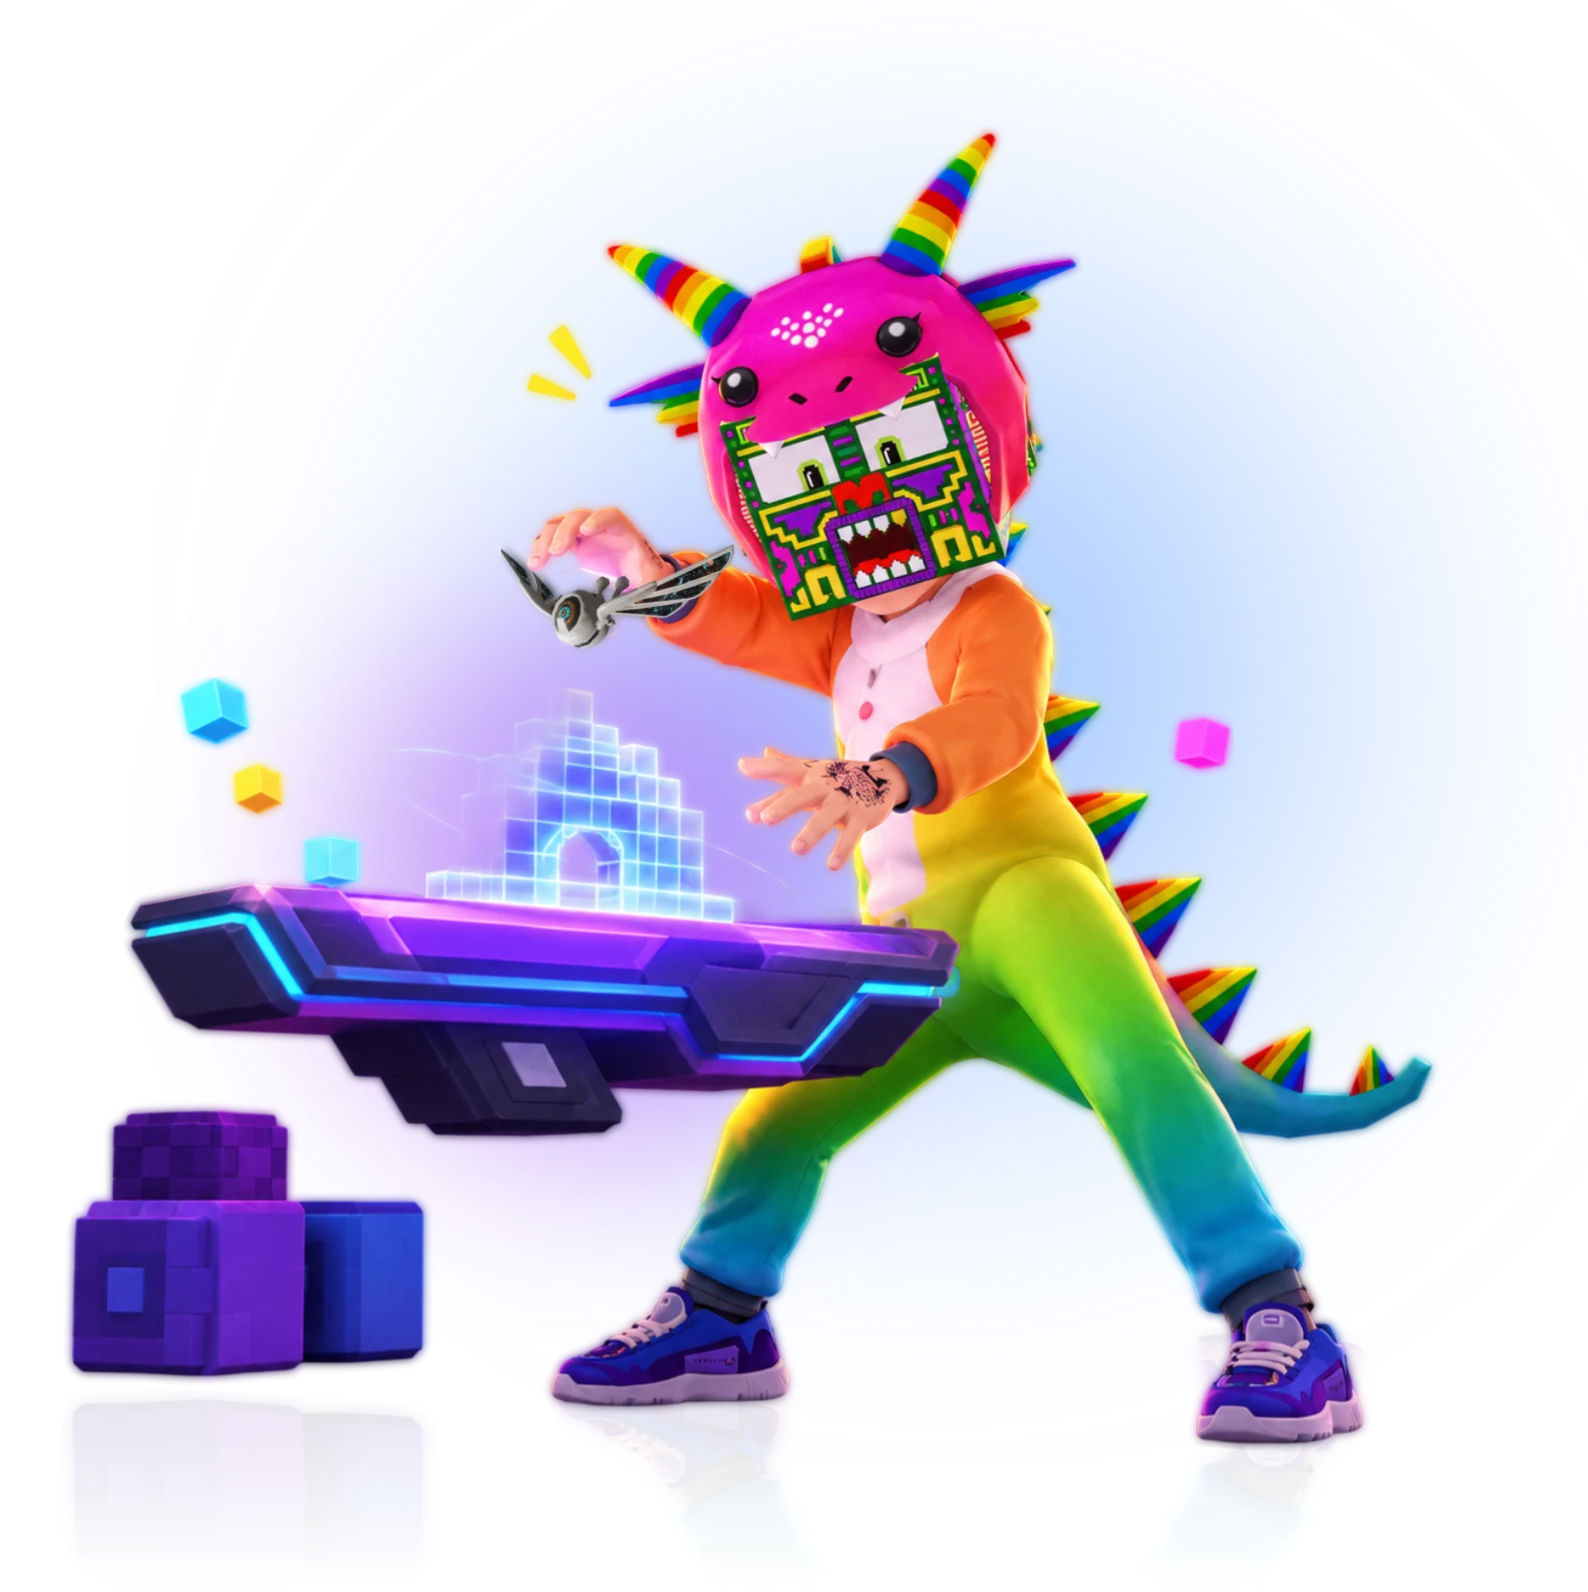
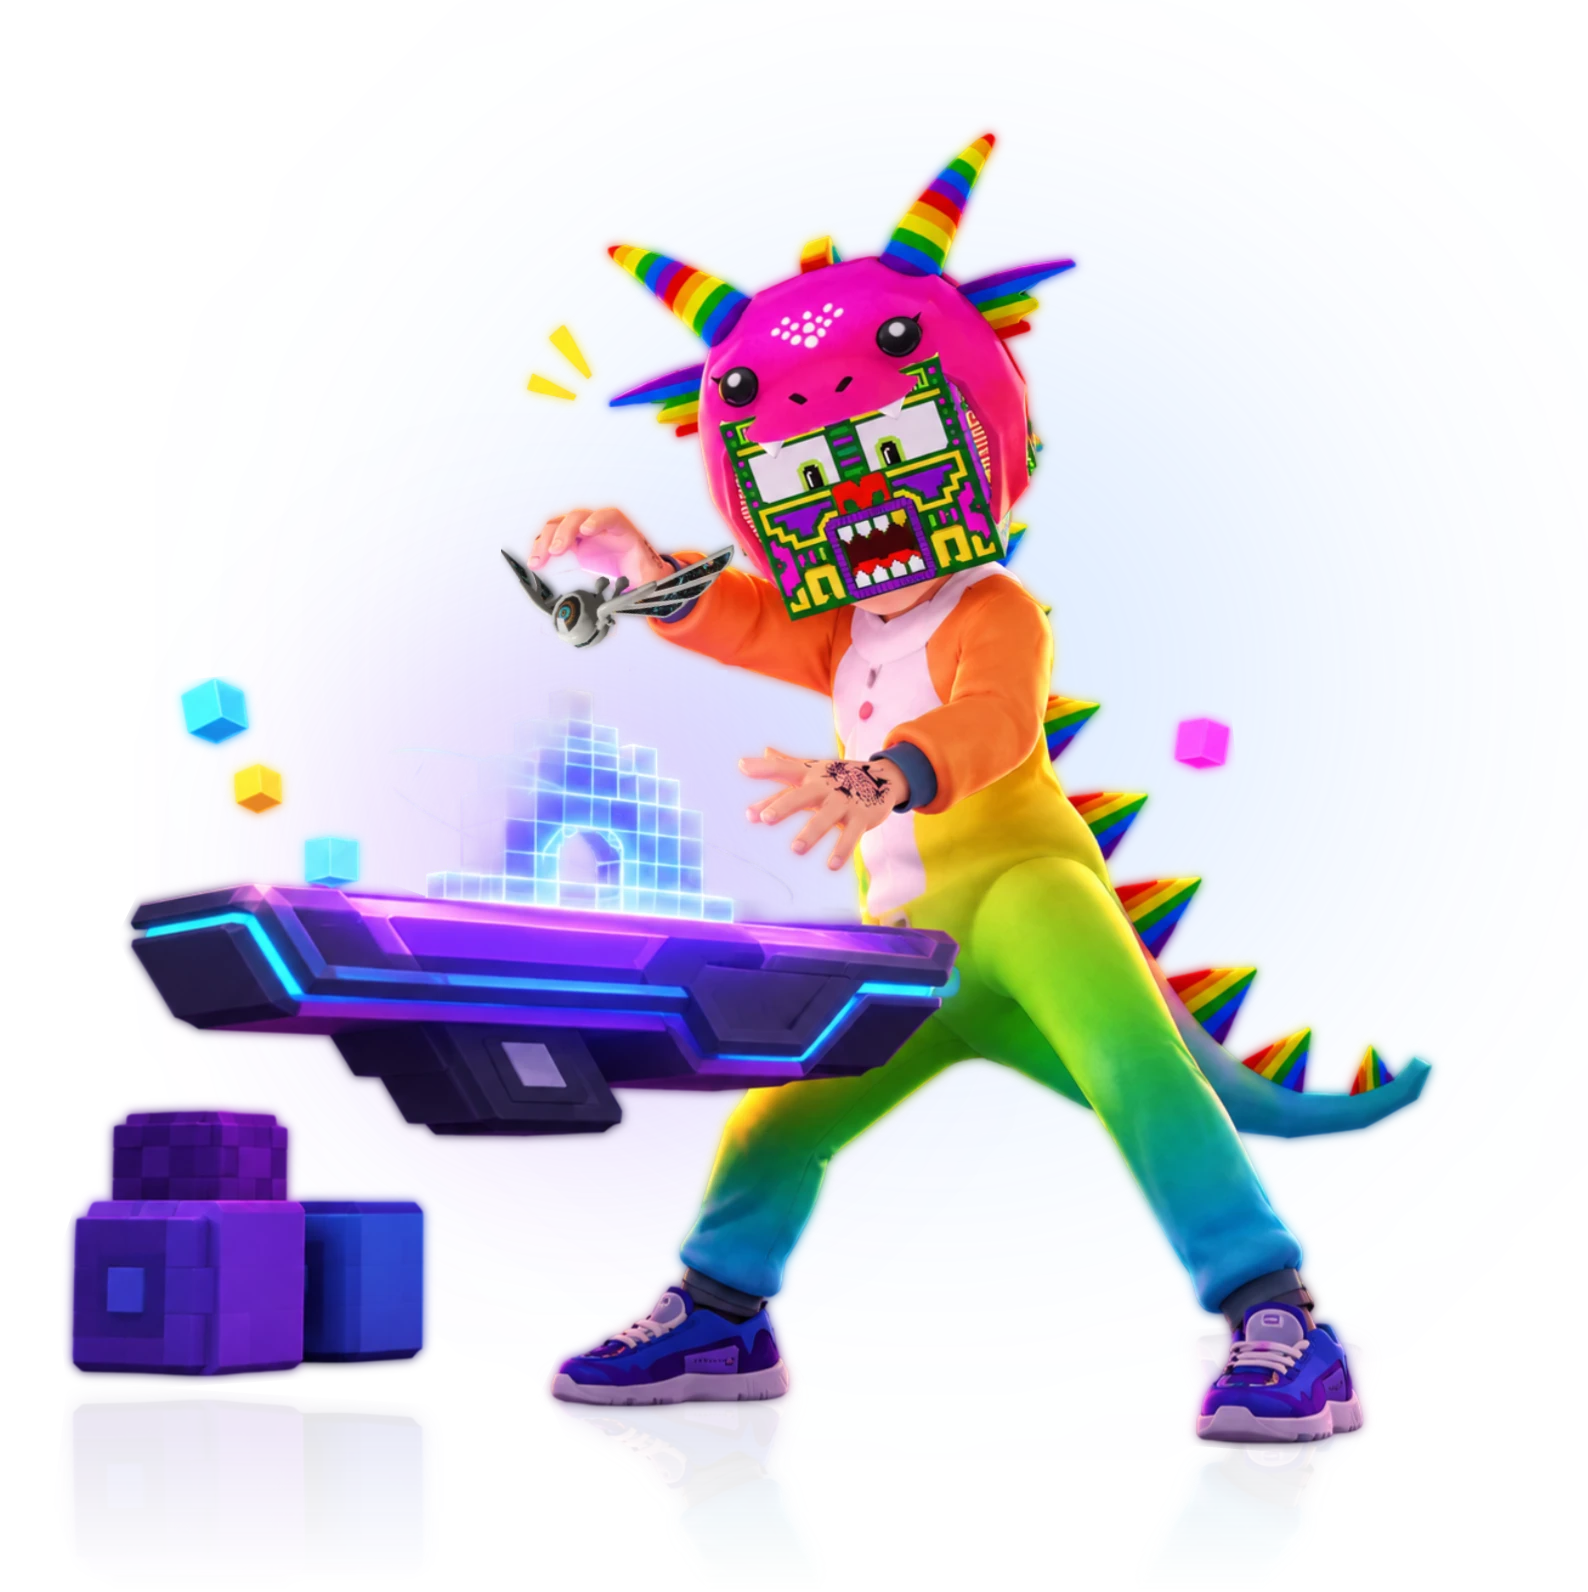
fix(creator-fund): Home art follows the updated glows

diff --git a/docs/DESIGN.md b/docs/DESIGN.md
@@ -3383,7 +3383,7 @@ A design-system **Filter** instance with a **Sort-By** Horizontal: `9577:32919` 
 | Step 2 | `NameIcon` "Get a NAME and publish your scenes": "Make your Worlds accessible and get your experiences ready for players." then the link line **Get a NAME →** | as Steps | as Steps | `https://decentraland.org/marketplace/names/claim` (`ManagePage` `CLAIM_NAME_URL`) |
 | Step 3 | `CalendarIcon` "Get ready for the first cycle": "Your first reward cycle begins!", as drawn | as Steps | as Steps | — |
 | Step 4 | Discord glyph "Join the community": "Connect with other creators, share your work, and get feedback." then **Join Discord →** | as Steps | as Steps | `DISCORD_URL` (`modules/utils`, `https://decentraland.org/discord/`) |
-| Art | `get-ready.webp` (1588 × 1592 with lossless alpha: the `Image` group `9626:35620` at 2×. That is the character `image 2` [`9675:53066`](https://www.figma.com/design/DhBtPn56J6ZlPLrTUDufqp/?node-id=9675-53066) with its 2.5-blurred copy and two drones, its mirrored floor reflection at 10 %, each cut by its `Subtract` silhouette mask, and the two glows (Epic, 375 × 381.5, blur 100, and Legendary, 260.4 × 264.9, blur 50, both at 50 % and rotated −11.79°), all under the group's mask, which fades the bottom 10 % to transparent). Drawn 794 × 796 at 1920 × 1080, its right edge on the content's right edge and its centre 17.5 above the area's middle (Figma's centre constraint), so its top sits 28 above the area's top and its bottom 7 above the area's bottom. ✱ `--art-w` = `min(794px, (100vh − 284px) × 794 / 796, (content right − text right − clamp(32px, 5.026vw, 96.5px)) / 0.95655)`: its art starts at 4.35 % of the image (alpha 0 left of that), so the art never rises into the tab bar or past the window's bottom (user decision), and stays right of the text column by Figma's 104.5 gap at 1920 less the 8px scrollbar gutter (96.5) (user decision). Hidden at `@media (max-width: 1341.19px), (max-height: 584.75px)`, where it would be under 300 wide (user decision: as the landing). Normal blending | — | — | `alt=""`, `pointer-events: none` |
+| Art | `get-ready.webp` (1588 × 1592 with lossless alpha: the `Image` group `9626:35620` at 2×. That is the character `image 2` [`9675:53066`](https://www.figma.com/design/DhBtPn56J6ZlPLrTUDufqp/?node-id=9675-53066) with its 2.5-blurred copy and two drones, its mirrored floor reflection at 10 %, each cut by its `Subtract` silhouette mask, and the two glows (Epic `#438FFF`, `Ellipse 1` `9626:36276`, 445 × 450, Figma layer blur 200, and Legendary `#A14BF3`, `Ellipse 2` `9675:53084`, 309 × 312.5, Figma layer blur 100, both at 20 % and rotated −11.79°), all under the group's mask, which fades the bottom 10 % to transparent). Drawn 794 × 796 at 1920 × 1080, its right edge on the content's right edge and its centre 17.5 above the area's middle (Figma's centre constraint), so its top sits 28 above the area's top and its bottom 7 above the area's bottom. ✱ `--art-w` = `min(794px, (100vh − 284px) × 794 / 796, (content right − text right − clamp(32px, 5.026vw, 96.5px)) / 0.95655)`: its art starts at 4.35 % of the image (alpha 0 left of that), so the art never rises into the tab bar or past the window's bottom (user decision), and stays right of the text column by Figma's 104.5 gap at 1920 less the 8px scrollbar gutter (96.5) (user decision). Hidden at `@media (max-width: 1341.19px), (max-height: 584.75px)`, where it would be under 300 wide (user decision: as the landing). Normal blending | — | — | `alt=""`, `pointer-events: none` |
 | Floor | the `Floor` ellipse [`9675:53064`](https://www.figma.com/design/DhBtPn56J6ZlPLrTUDufqp/?node-id=9675-53064), 1411 × 343, Mythic at 20 % opacity, `filter: blur(100px)` (Gaussian std 100), behind the art and outside the group's mask: its box 254 left of and 607 below the art box's top-left corner; ✱ all scaled with the art (`left: −31.99 %`, `width: 177.71 %`, `top: 76.26 %`, `height: 43.09 %` of the art box, blur `var(--art-w) × 100 / 794`) and hidden with it (user decision). It runs past the content's right edge and the area's bottom and is cut at the page's right edge (inside the scrollbar) and at the area's bottom, where the Figma frame clips it | `--palette-rarity-mythic` | — | decorative; under the text column (`z-index: 1`) |
 | Page | the app-wide `.Main` background (the frame's own fill matches it, as on the landing) | — | — | — |
 
